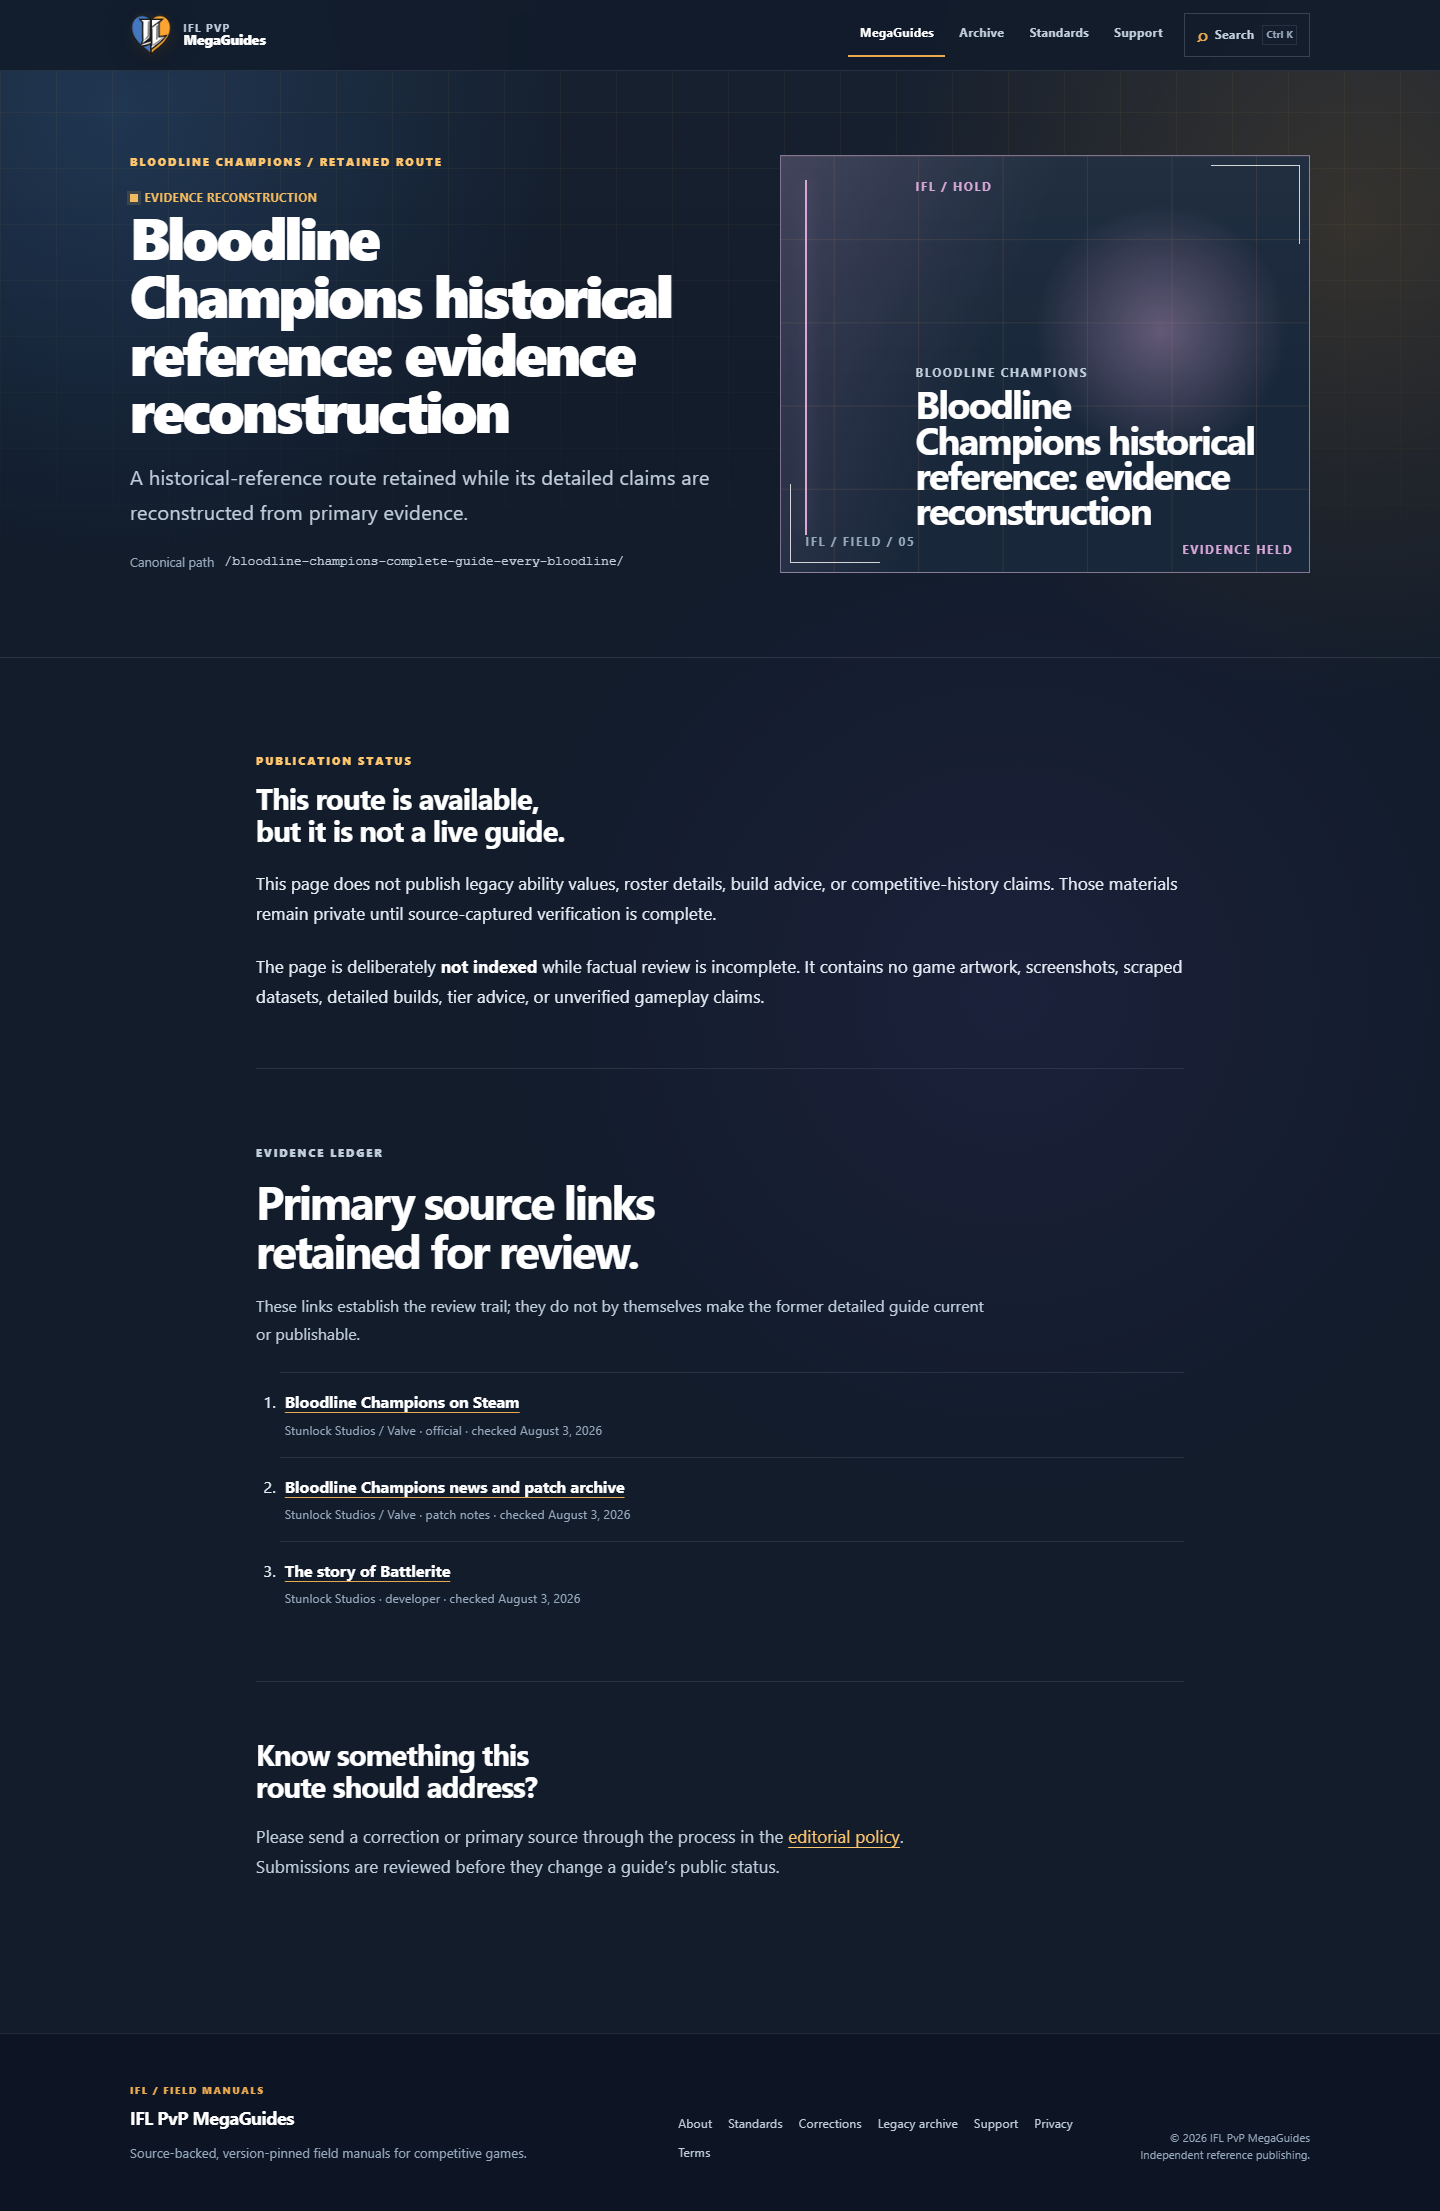
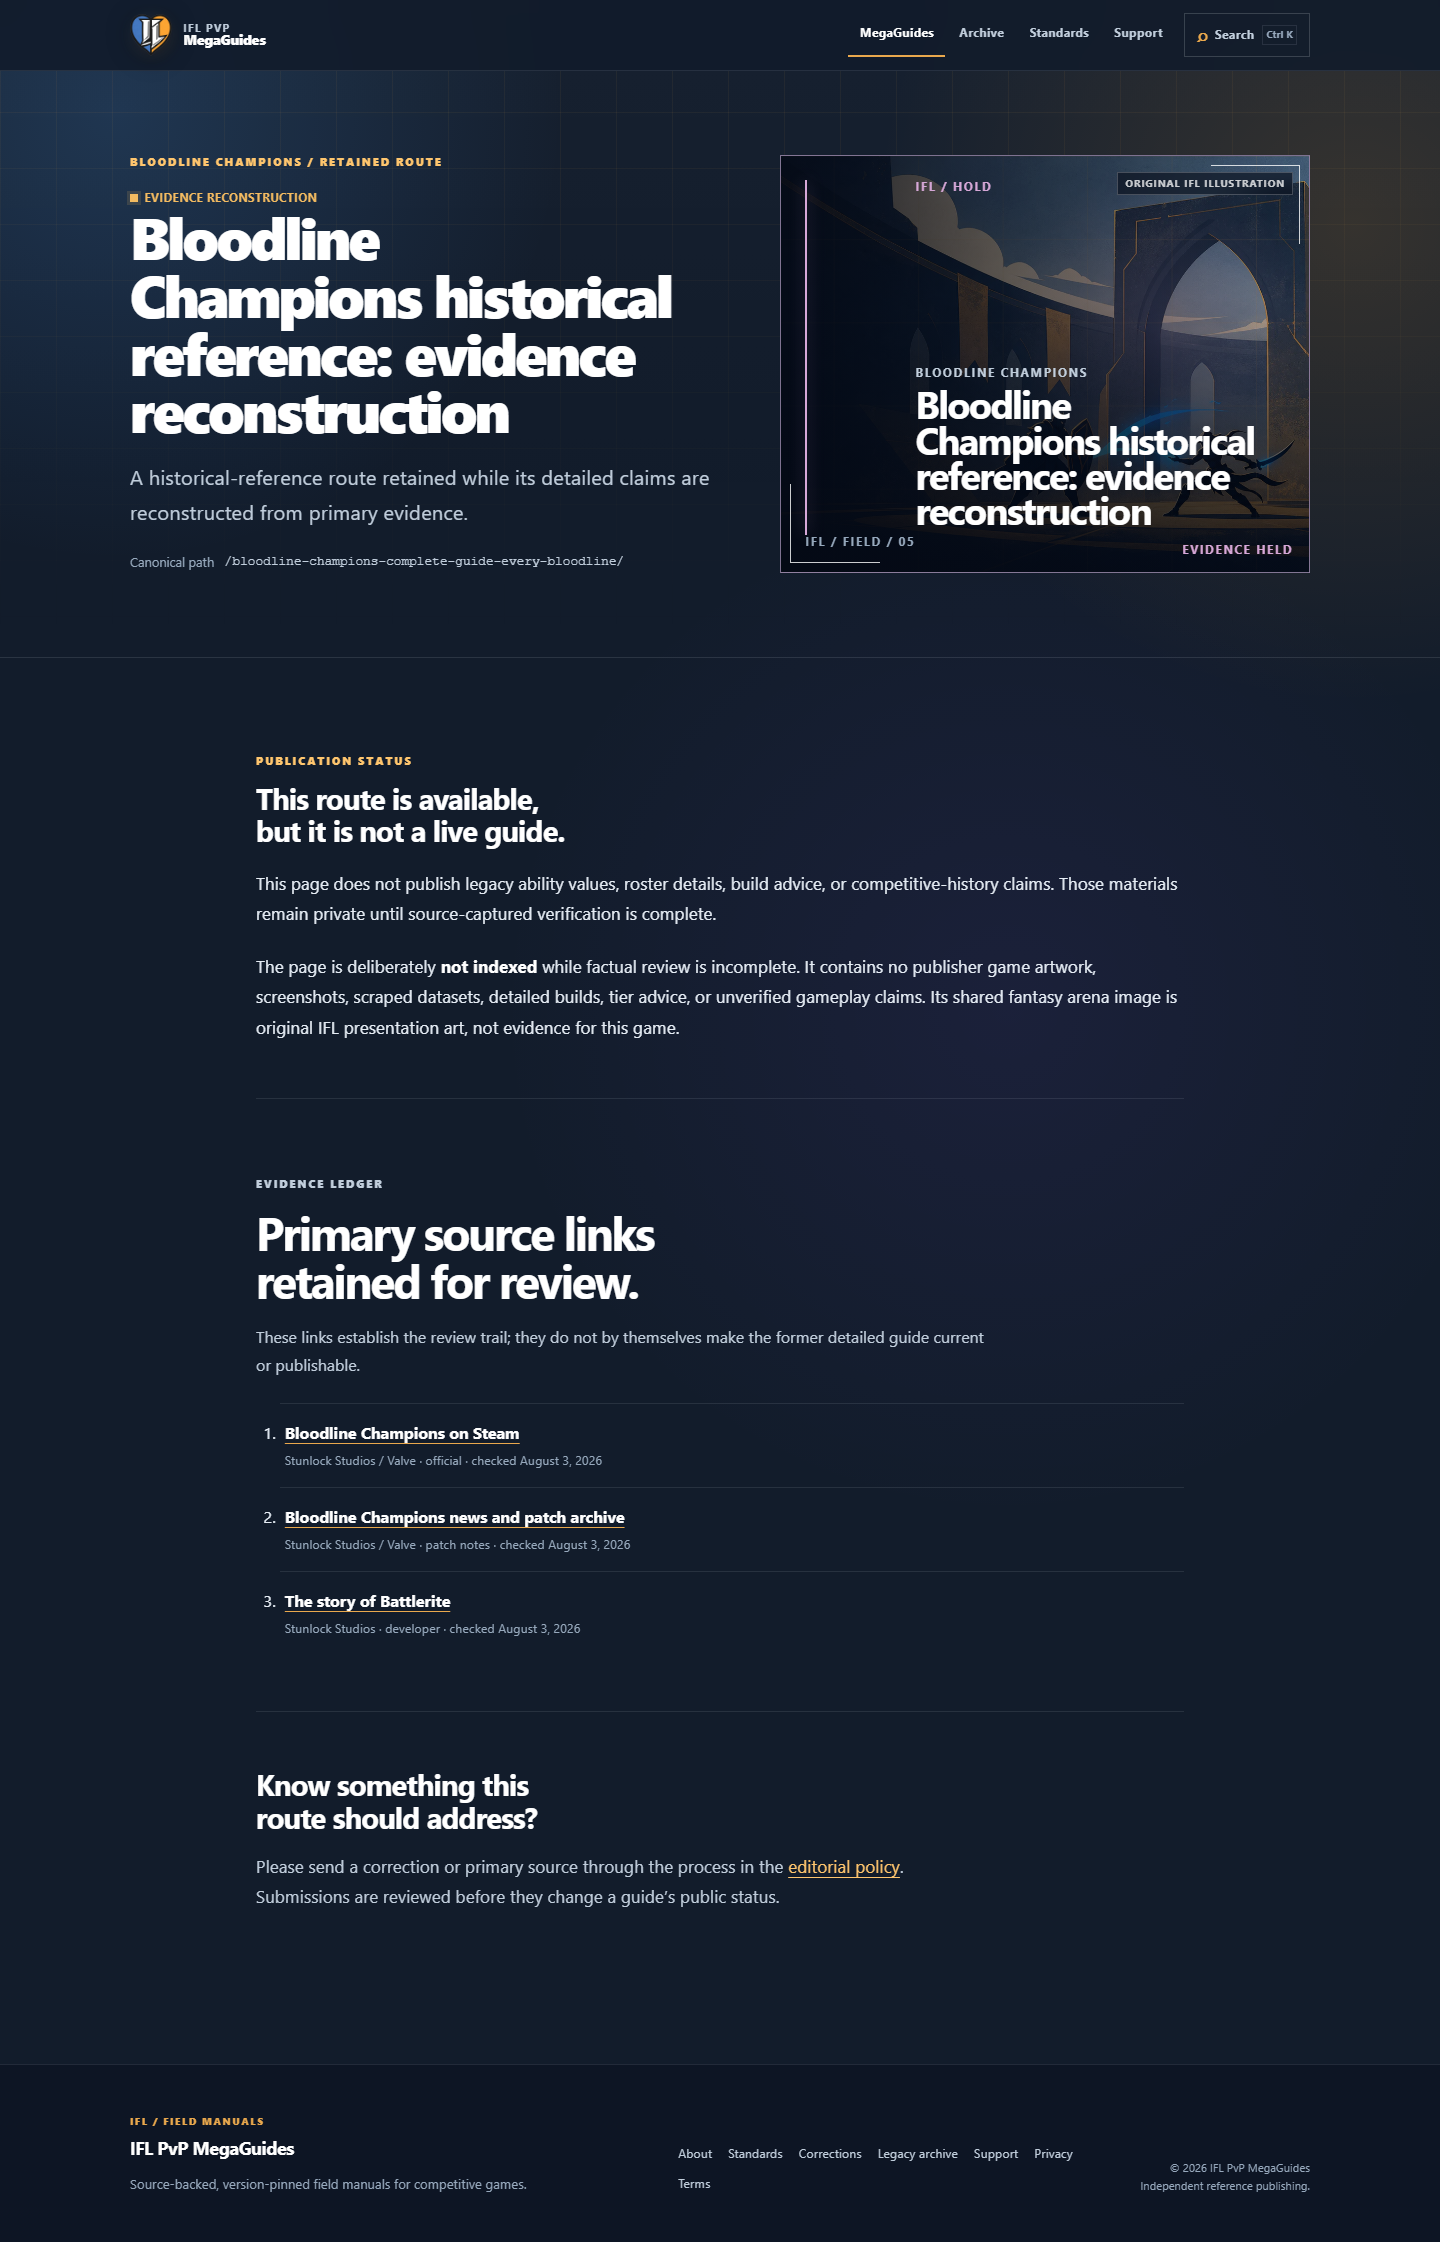
feat: add original fantasy arena experience

diff --git a/src/data/public-content.ts b/src/data/public-content.ts
@@ -46,8 +46,8 @@ export interface PublicMegaGuide {
   readonly confidence: 'low' | 'medium';
   readonly review: ReviewDue;
   readonly sources: readonly EvidenceSource[];
-  /** There is no artwork, screenshot, logo, portrait, video, or font dependency. */
-  readonly visual: 'css-reference-grid';
+  /** Decorative first-party arena art is presentation only and never guide evidence. */
+  readonly visual: 'original-fantasy-arena-art';
   /** Original public summaries are copyright-reserved; application code is separately licensed. */
   readonly contentRights: 'editorial-text-reserved';
 }
@@ -60,7 +60,7 @@ export interface EvidenceHoldNotice {
   readonly notice: string;
   readonly game: string;
   readonly sources: readonly EvidenceSource[];
-  readonly visual: 'css-reference-grid';
+  readonly visual: 'original-fantasy-arena-art';
   readonly contentRights: 'editorial-text-reserved';
 }
 
@@ -121,7 +121,7 @@ export const PUBLIC_MEGA_GUIDES = [
         type: 'patch-notes',
       },
     ],
-    visual: 'css-reference-grid',
+    visual: 'original-fantasy-arena-art',
     contentRights: 'editorial-text-reserved',
   },
   {
@@ -160,7 +160,7 @@ export const PUBLIC_MEGA_GUIDES = [
         type: 'official',
       },
     ],
-    visual: 'css-reference-grid',
+    visual: 'original-fantasy-arena-art',
     contentRights: 'editorial-text-reserved',
   },
   {
@@ -199,7 +199,7 @@ export const PUBLIC_MEGA_GUIDES = [
         type: 'official',
       },
     ],
-    visual: 'css-reference-grid',
+    visual: 'original-fantasy-arena-art',
     contentRights: 'editorial-text-reserved',
   },
   {
@@ -252,7 +252,7 @@ export const PUBLIC_MEGA_GUIDES = [
         type: 'official',
       },
     ],
-    visual: 'css-reference-grid',
+    visual: 'original-fantasy-arena-art',
     contentRights: 'editorial-text-reserved',
   },
 ] as const satisfies readonly PublicMegaGuide[];
@@ -295,7 +295,7 @@ export const PUBLIC_EVIDENCE_HOLDS = [
         type: 'developer',
       },
     ],
-    visual: 'css-reference-grid',
+    visual: 'original-fantasy-arena-art',
     contentRights: 'editorial-text-reserved',
   },
 ] as const satisfies readonly EvidenceHoldNotice[];

diff --git a/governance/generated-assets.md b/governance/generated-assets.md
@@ -14,3 +14,16 @@ This record preserves the generation intent for reviewed public presentation art
 Final prompt:
 
 > Create an original, franchise-neutral panoramic key art image for an open-source competitive gaming guide website. Bright, energetic, premium editorial game-art aesthetic, 16:9 landscape, NO text, NO letters, NO logos, NO recognizable characters, NO copyrighted game imagery. Build one coherent luminous world divided organically into four distinct competitive game genres that are all visible at once, not a slideshow and not separate boxed panels: left foreground heroic high-fantasy duel with magical blue and gold energy; center-left futuristic sci-fi arena with abstract armored silhouettes and neon teal light; center-right high-speed anti-gravity racing competitors with vibrant coral and electric blue trails; right foreground tactical team-action silhouettes with clean orange and violet ability effects. Unite the worlds through sweeping light ribbons converging around a clean empty central region where a separate brand crest will be overlaid. Optimistic daylight and luminous atmosphere, rich bright colors, strong depth, crisp silhouettes, sophisticated cinematic composition, inclusive non-specific figures, visual excitement without violence or gore, readable at website hero size, darker only at the extreme bottom edge for white UI text. No UI, no screenshots, no fake game covers, no watermarks.
+
+## `public/brand/ifl-pvp-arena-silhouettes-v1.webp`
+
+- Generated: 2026-08-03
+- Workflow: built-in OpenAI image generation, then deterministic metadata stripping and WebP conversion at quality 88
+- Purpose: restrained homepage hero and fallback guide-card art that supports rather than competes with future authentic guide media
+- Boundary: wholly original, simplified fantasy silhouettes and geometric arena; it must never be presented as a screenshot, licensed game scene, or evidence for any covered game
+- Source render: 1915 × 821 PNG
+- Public rendition: 1915 × 821 WebP
+
+Final prompt:
+
+> Create a restrained, graphic, non-photoreal illustration that suggests competitive fantasy PvP without looking like detailed game key art. A simplified fantasy arena expressed through large geometric stone arches, a curved wall, abstract banner shapes, and a soft open sky. On the right third, two small original combat silhouettes face off—one broad shield fighter and one agile spellblade—with one subtle arc of blue energy. Sophisticated editorial cel-shaded illustration, flat poster design, graphic-novel-inspired shapes, crisp silhouettes, limited detail, subtle screen-print grain, premium modern esports branding. Very wide 21:9 banner; leave the entire left 55 percent calm and mostly abstract for website copy. Deep IFL navy, muted slate blue, warm amber-gold, restrained electric cyan, and small ivory highlights. Wholly original scene and silhouettes; no existing character, faction, costume, weapon, arena, logo, trademark, title, UI, text, watermark, gore, or franchise-specific expression. Avoid photorealism, detailed faces, realistic armor textures, complex spell effects, cinematic explosions, giant crowds, busy composition, glossy AAA key art, painterly realism, and montage.

diff --git a/PUBLIC-EXPORT-SCOPE.md b/PUBLIC-EXPORT-SCOPE.md
@@ -5,8 +5,8 @@ This directory is the canonical public source repository for IFL PvP MegaGuides.
 - It was not cloned from, created as a worktree of, or initialized from the private repository history.
 - The former mixed-rights source and its complete Git history remain preserved in a separate private archive; no private object was imported here.
 - Code is re-authored or individually reviewed before inclusion.
-- Publisher game artwork, gameplay screenshots, videos, third-party fonts, publisher logos, scraped or synchronized datasets, deployment credentials, private reports, and the legacy editorial corpus are excluded. The only binary files are five reviewed, hash-pinned first-party presentation assets: one reserved project logo, one project-directed franchise-neutral genre-world illustration, one generated social card, and two interface captures.
+- Publisher game artwork, gameplay screenshots, videos, third-party fonts, publisher logos, scraped or synchronized datasets, deployment credentials, private reports, and the legacy editorial corpus are excluded. The only binary files are six reviewed, hash-pinned first-party presentation assets: one reserved project logo, two project-directed franchise-neutral illustrations, one generated social card, and two interface captures.
 - Current guides remain evidence-held until their factual review is complete.
-- The public visual system uses the approved IFL PvP identity mark, original franchise-neutral fantasy, arena, racing, and tactical artwork, system typography, and CSS motion rather than third-party imagery.
+- The public visual system uses the approved IFL PvP identity mark, original franchise-neutral genre-world and fantasy-arena artwork, system typography, and CSS motion rather than third-party imagery.
 
 The private migration record retains source-custody, recovery, and rollback evidence outside this public repository.

diff --git a/README.md b/README.md
@@ -21,14 +21,14 @@ The original application and maintenance tooling in this repository are publishe
 
 - An Astro-based static-site foundation for a guide-first reference experience.
 - Deterministic local checks for build quality, accessibility, release boundaries, contributor sign-off, and dependency licensing.
-- Synthetic example material, a first-party IFL identity system, and original franchise-neutral genre-world artwork—no publisher game art, screenshots, video, collected game data, or legacy editorial archive.
+- Synthetic example material, a first-party IFL identity system, and original franchise-neutral PvP artwork—no publisher game art, screenshots, video, collected game data, or legacy editorial archive.
 - A human-reviewed maintenance model: automation may prepare proposals, but it may not merge, deploy, or publish without maintainer approval.
 
 The production site remains at [iflpvp.com](https://iflpvp.com). This repository deliberately does not include a live-site export or a copy of its historical media library.
 
 ## Product preview
 
-These captures come from this repository’s first-party public interface. The design uses the reserved IFL PvP mark, original franchise-neutral fantasy, arena, racing, and tactical artwork, CSS motion, and system typography; it contains no publisher artwork, game screenshots, remote fonts, or historical media.
+These captures come from this repository’s first-party public interface. The design uses the reserved IFL PvP mark, original franchise-neutral competitive archetypes and genre worlds, CSS motion, and system typography; it contains no publisher artwork, game screenshots, remote fonts, or historical media.
 
 <p>
   <img src="docs/screenshots/home-desktop.png" width="49%" alt="IFL PvP MegaGuides desktop home with a bright original multi-genre hero and evidence-led guide library" />

diff --git a/ASSET-GOVERNANCE.md b/ASSET-GOVERNANCE.md
@@ -4,7 +4,7 @@ This public repository is deny-by-default for non-text assets. A public URL, att
 
 ## Launch boundary
 
-The public release contains five approved first-party presentation assets: the reserved IFL PvP logo, one project-directed franchise-neutral genre-world illustration, the social card generated with the logo, and two local-build interface captures recorded in the public asset allowlist. The standalone logo and genre-world artwork remain outside the MIT code license. The fantasy, arena, racing, and tactical scene is decorative original art—not a screenshot or representation of any covered game. Publisher game artwork, gameplay screenshots, video, audio, publisher logos, third-party fonts, author portraits, collected source media, and any unreviewed social asset are excluded.
+The public release contains six approved first-party presentation assets: the reserved IFL PvP logo, two project-directed franchise-neutral illustrations, the social card generated with the logo, and two local-build interface captures recorded in the public asset allowlist. The standalone logo and both illustrations remain outside the MIT code license. The genre-world scene and simplified fantasy arena silhouettes are decorative original art—not screenshots, publisher art, or representations of any covered game. Publisher game artwork, gameplay screenshots, video, audio, publisher logos, third-party fonts, author portraits, collected source media, and any unreviewed social asset are excluded.
 
 Any future non-text asset must have exactly one approved entry in [governance/public-asset-allowlist.json](governance/public-asset-allowlist.json). The entry must record its exact path, SHA-256 digest, creator or source, rights basis, applicable license or permission, approval date, reviewer, and redistribution status.
 

diff --git a/src/data/PUBLIC-CONTENT-NOTES.md b/src/data/PUBLIC-CONTENT-NOTES.md
@@ -1,7 +1,7 @@
 # Public content boundary
 
 `public-content.ts` is the entire editorial-data boundary for the initial public
-release. It contains five newly authored, image-free route records:
+release. It contains five newly authored, publisher-image-free route records:
 four review-due MegaGuide summaries and one Bloodline Champions
 evidence-reconstruction notice.
 
@@ -21,14 +21,17 @@ restored. When a route returns, preserve its established slug and record:
 - primary sources for material factual claims, each with a checked date;
 - a current or clearly historical scope statement;
 - `robots` status appropriate to its review state; and
-- image-free body and metadata, unless an asset has a documented public-rights
-  basis.
+- publisher-image-free body and metadata, unless an exact asset has a documented
+  public-rights basis.
 
 The public release deliberately excludes the former article bodies, frontmatter
 image paths, Markdown image embeds, social/OG media, videos, author portrait,
 font binaries, game logos, hero data, ability data, and all scraped or
 synchronized datasets. Those materials remain in the private source
 archive pending separate rights and evidence review.
+
+The shared fantasy arena presentation is original, hash-pinned project art. It
+is decorative, is not tied to any covered game, and is never guide evidence.
 
 ## Route state
 

diff --git a/CONTENT-LICENSE.md b/CONTENT-LICENSE.md
@@ -7,7 +7,7 @@ This repository makes the **site software and tooling** available under the [MIT
 | Original application code, scripts, configuration, and developer documentation | Included | MIT, unless a file says otherwise |
 | Example copy and synthetic fixtures | Included only when specifically identified as examples | MIT with the code, unless a file says otherwise |
 | Editorial articles, research notes, guide databases, and collected or derived data | Excluded by default | All rights reserved unless a separate rights record says otherwise |
-| IFL PvP / IFLPVP / IFL PvP MegaGuides names, marks, logos, and visual identity | Textual references only at launch | No trademark or branding permission; see [TRADEMARKS.md](TRADEMARKS.md) |
+| IFL PvP / IFLPVP / IFL PvP MegaGuides names, marks, logos, and visual identity | Included only as exact reviewed files recorded in the public asset allowlist | All rights reserved; no trademark, branding, or general media-reuse permission; see [TRADEMARKS.md](TRADEMARKS.md) |
 | Game art, screenshots, video, audio, logos, player/team imagery, publisher material, and third-party marks | Excluded | Rights remain with their respective owners |
 
 ## No implied content license
